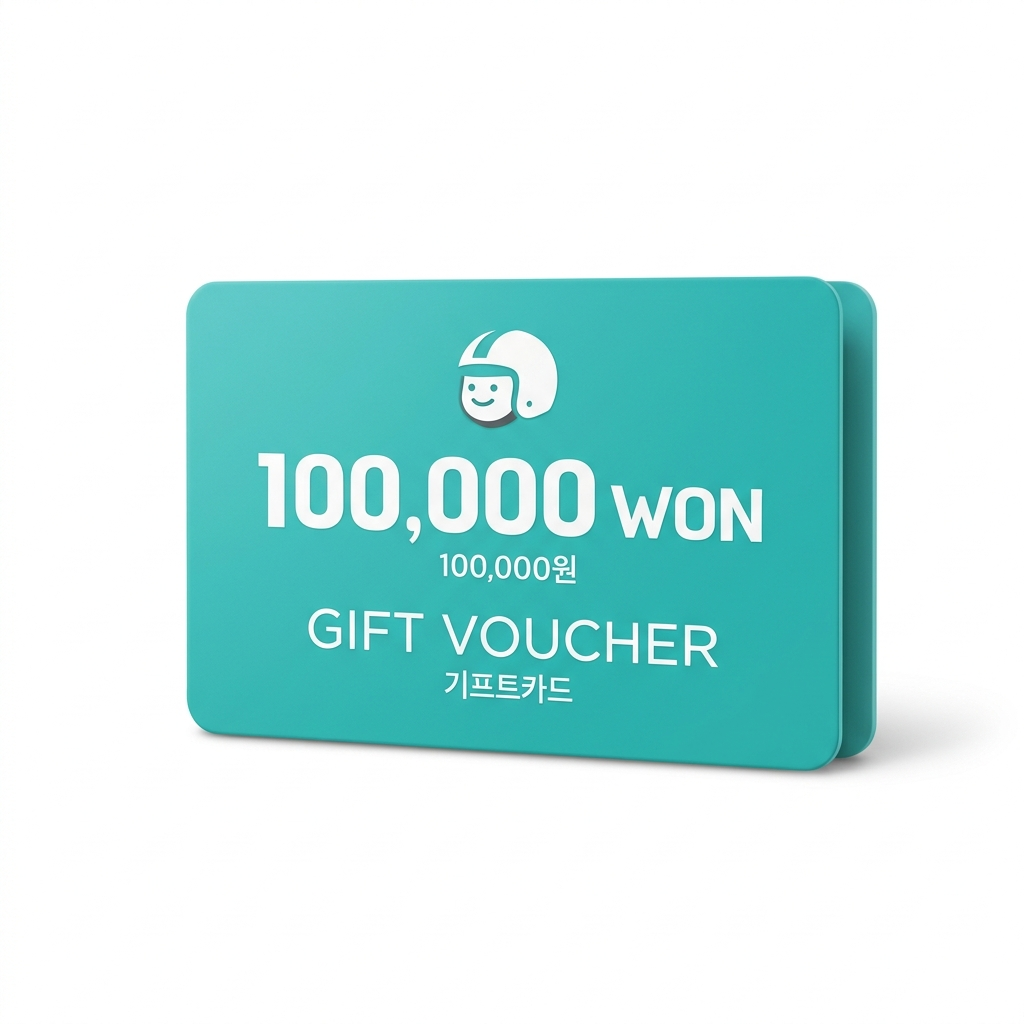
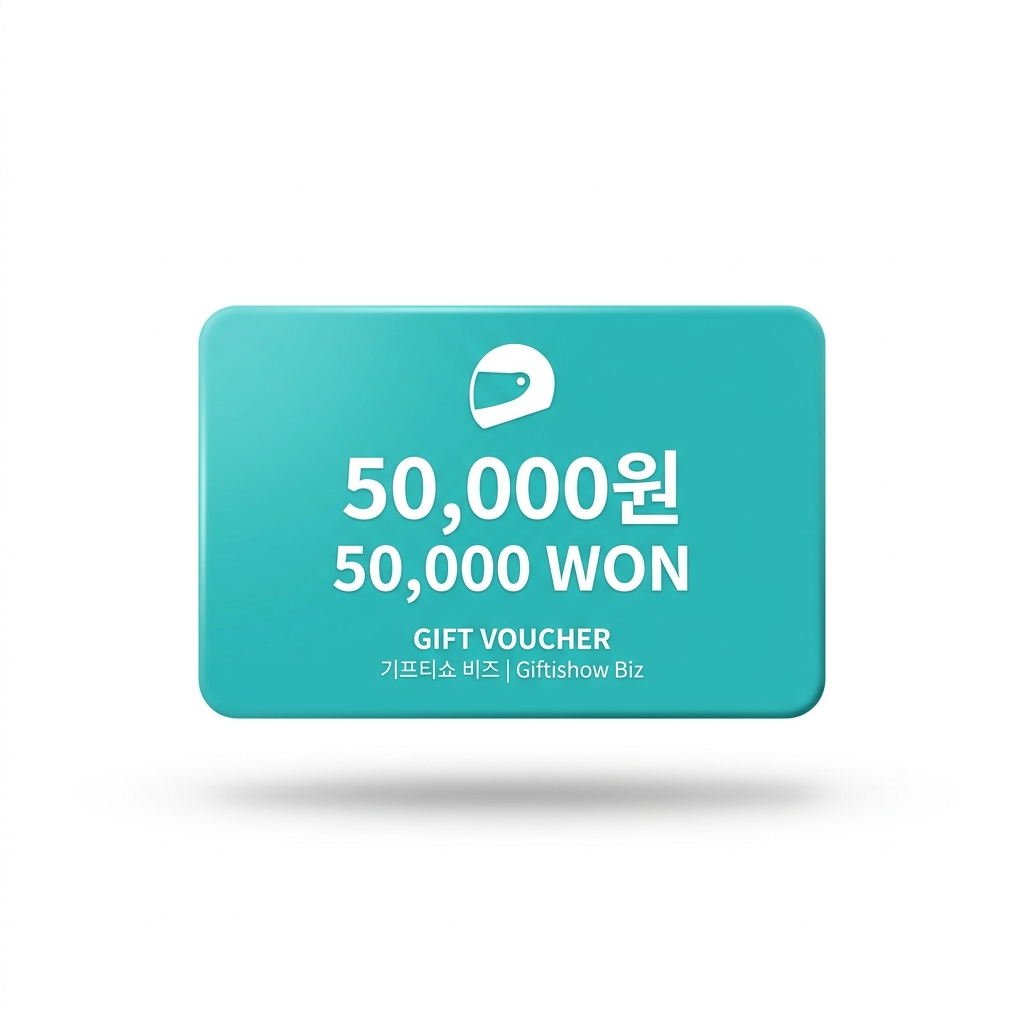
Add files via upload

Changed region(s): [[0.1562, 0.25, 0.9375, 0.8125]]

diff --git a/index.html b/index.html
@@ -377,7 +377,7 @@
           <div class="w-20 h-20 rounded-2xl bg-white border border-gray-100 flex-shrink-0 p-1 flex items-center justify-center">
             <img
               src="./assets/giftishow-baemin.png"
-              alt="배달의민족 상품권"
+              alt="배달의민족 5만원권"
               class="w-full h-full object-contain"
             />
           </div>
@@ -386,12 +386,12 @@
               <span class="inline-block px-2.5 py-0.5 rounded-full bg-pinky-light text-pinky-deep text-[11px] font-bold">
                 1등 · 잭팟
               </span>
-              <span class="text-xs font-bold text-pinky-deep">1명</span>
+              <span class="text-xs font-bold text-pinky-deep">2명</span>
             </div>
             <h3 class="text-base font-bold text-choco truncate">
-              배달의민족 100,000원권
+              배달의민족 50,000원권
             </h3>
-            <p class="text-xs font-normal text-choco-muted">배민 앱 선물함 즉시 등록 가능</p>
+            <p class="text-xs font-normal text-choco-muted">배민 앱 선물함 즉시 등록 가능 (1인 5만 원권)</p>
           </div>
         </div>
 
@@ -741,7 +741,7 @@
       1: {
         tier: '1등 당첨',
         rarity: '1등',
-        name: '배달의민족 100,000원권',
+        name: '배달의민족 50,000원권',
         img: './assets/giftishow-baemin.png'
       },
       2: {

diff --git a/google-apps-script.js b/google-apps-script.js
@@ -14,11 +14,11 @@
  */
 
 const TOTAL_STOCK = 200;
-const FIRST_PRIZE_TURNS = [25, 92]; // 25번째, 92번째 참가자 1등(배민 10만원권) 고정
+const FIRST_PRIZE_TURNS = [25, 92]; // 25번째, 92번째 참가자 1등(배민 5만원권, 총 2명) 고정
 
 function getPrizeByTurn(turn) {
   if (FIRST_PRIZE_TURNS.indexOf(turn) !== -1) {
-    return { rank: '1등 (SSR)', name: '배달의민족 100,000원권' };
+    return { rank: '1등 (SSR)', name: '배달의민족 50,000원권' };
   }
   // 2~166 짝수 순번(92 제외, 총 82명): 2등 오리지널 초코 빼빼로
   if (turn >= 2 && turn <= 166 && turn % 2 === 0) {

diff --git a/OPERATIONS_GUIDE.md b/OPERATIONS_GUIDE.md
@@ -55,9 +55,8 @@
 
 ## 3. 경품 배정 규칙 (총 200명 선착순)
 
-- **1등 (`SSR` · 배달의민족 100,000원권)**: **25번째(`#025`), 92번째(`#092`)** 참여자 고정 배정
-- **2등 (`SR` · 롯데 오리지널 초코 빼빼로 · 82명)**: `2, 4, 6, 8, 10, 12 ... 166` 짝수 순번 고정 배정 (`92`번 제외)
-- **3등 (`R` · 츄파춥스 막대사탕 · 116명)**: 나머지 순번 전원 100% 배정
+- **1등 (`SSR` · 배달의민족 50,000원권 · 2명)**: **25번째(`#025`), 92번째(`#092`)** 참여자 고정 배정 (1인당 5만 원권 1장)
+- **2등 (`SR` · 롯데 오리지널 초코 빼빼로)** & **3등 (`R` · 츄파춥스 막대사탕)**: 나머지 순번 무작위(랜덤) 100% 배정
 - **마감 기준**: 구글 시트 기준 참여순번 **200번**까지 기록되면 선착순 마감 처리합니다.
 
 ---

diff --git a/README.md b/README.md
@@ -24,6 +24,5 @@
 
 ## 당첨 순번 배정 규칙 (총 200명)
 
-- **1등 (`SSR` 배달의민족 100,000원권)**: **25번째(`#025`), 92번째(`#092`)** 참가자 고정
-- **2등 (`SR` 롯데 오리지널 초코 빼빼로 · 82명)**: `2, 4, 6, 8, 10, 12 ... 166` 짝수 순번 고정 (`92` 제외)
-- **3등 (`R` 츄파춥스 막대사탕 · 116명)**: 나머지 순번 전원 100% 당첨
+- **1등 (배달의민족 50,000원권 · 2명)**: **25번째(`#025`), 92번째(`#092`)** 참가자 고정 (1인당 5만 원권 1장)
+- **2등 (롯데 오리지널 초코 빼빼로)** & **3등 (츄파춥스 막대사탕)**: 나머지 순번 전원 무작위(랜덤) 100% 당첨
